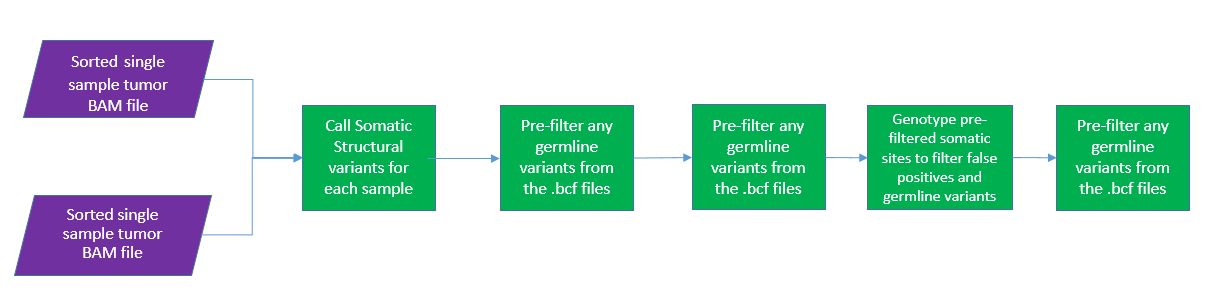
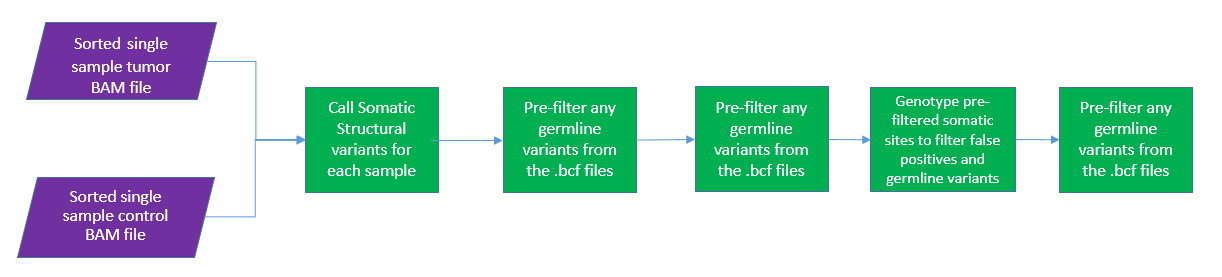
implemented review comments

Changed region(s): [[0.0, 0.0578, 0.9951, 0.9531]]

diff --git a/README.md b/README.md
@@ -4,7 +4,7 @@
 * [How To Run](#How-To-Run)
 * [Flow Diagram](#flow-diagram)
 * [Pipeline Steps](#pipeline-steps)
-    1. [Calling Structural Variants](#somatic-sv)
+    1. [Calling Somatic Structural Variants](#call-somatic-structural-variants)
 * [Inputs](#Inputs)
 * [Outputs](#outputs)
 * [Testing and Validation](#testing-and-validation)
@@ -14,8 +14,8 @@
 
 
 ## Overview:
-The call-sSV pipeline calls structural variants utilizing [Delly](https://github.com/dellytools/delly). This pipeline requires at least one tumor sample and a matched control sample.
-This pipeline is developed using Nextflow , docker and can run either on a single node linux machine or a multi-node HPC cluster (e.g. Slurm, SGE). Additionally, it has been validated with the SMC-HET dataset.
+The call-sSV pipeline calls somatic structural variants utilizing [Delly](https://github.com/dellytools/delly). This pipeline requires at least one tumor sample and a matched control sample.
+This pipeline is developed using Nextflow , docker and can run either on a single node linux machine or a multi-node HPC cluster (e.g. Slurm, SGE).
 
 ## How to Run:
 
@@ -29,6 +29,8 @@ This pipeline is developed using Nextflow , docker and can run either on a singl
 ![](https://github.com/uclahs-cds/pipeline-call-sSV/blob/dev-doc-ghouse/call-sSV-workflow.PNG)
 
 ## Pipeline Steps:
+
+### Call Somatic Structural Variants:
 
 #### 1. Calling Single Sample Somatic Structural Variants
 The first step of the pipeline requires an aligned and sorted tumor sample .bam file and a matched control sample as an input for variant calling with Delly.
@@ -84,12 +86,10 @@ The input CSV should have all columns below and in the same order. An example of
 
 ### Test Data Set
 
-Testing was performed leveraging aligned and sorted bams generated using bwa-mem2-2.1 against reference GRCh38 (SMC-HET was aligned against hs37d5):
+Testing was performed leveraging aligned and sorted bams generated using bwa-mem2-2.1 against reference GRCh38:
 
-* A-mini: BWA-MEM2-2.1_TEST0000000_TWGSAMIN000001-T001-S01-F.bam and bai
-* A-partial: BWA-MEM2-2.1_TEST0000000_TWGSAPRT000001-T001-S01-F.bam and bai
-* A-full: a-full-CPCG0196-B1.bam and bai
-* SMC-HET: HG002.N.bam and bai
+* A-mini: S2.T-0.bam and bai (tumor sample)
+* SMC-HET: HG002.N.bam and bai (control sample)
 
 ### Test runs for the A-mini/partial/full samples were performed using the following reference files
 
@@ -99,7 +99,7 @@ Testing was performed leveraging aligned and sorted bams generated using bwa-mem
 
 ## Performance Validation
 
-Testing was performed primarily in the Boutros Lab SLURM Development cluster and the SLURM Covid cluster. Metrics below will be updated where relevant with additional testing and tuning outputs.
+Testing was performed primarily in the Boutros Lab SLURM Development cluster. Metrics below will be updated where relevant with additional testing and tuning outputs.
 
 |Test Case	| Test Date	| Node Type |	Duration	| CPU Hours	| Virtual Memory Usage (RAM)-peak rss|
 |----- | -------| --------| ----------| ---------| --------|
@@ -109,3 +109,7 @@ Testing was performed primarily in the Boutros Lab SLURM Development cluster and
 
 Included is a template for validating your input files. For more information on the tool checkout:
 https://github.com/uclahs-cds/tool-validate-nf
+
+## References
+
+* [Delly Structural Variant Calling](https://github.com/dellytools/delly)
